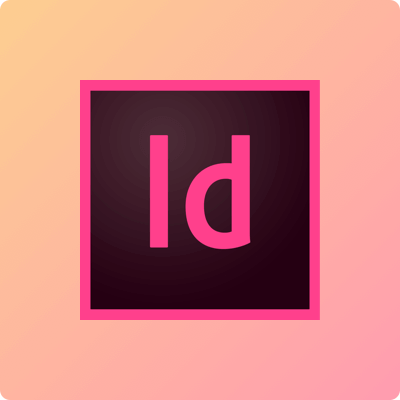
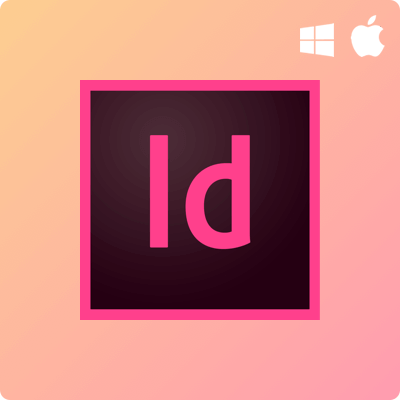
Made it easier to see OS’s on tools

Changed region(s): [[0.87, 0.03, 0.96, 0.15], [0.75, 0.06, 0.84, 0.15]]

diff --git a/updates.html b/updates.html
@@ -61,11 +61,11 @@
                         <div class="updates-wrapper-right">
                             <h4>Added</h4>
                             <ul class="dash">
-                                <li>--</li>
+                                <li>SSL/HTTPS.</li>
                             </ul>
                             <h4>Removed</h4>
                             <ul class="dash">
-                                <!-- <li>Tracking with Hotjar for optimizing certain parts of the website because of the GDPR.</li> -->
+                                <li>Tracking with Hotjar for optimizing certain parts of the website because of the GDPR.</li>
                             </ul>
                             <h4>Improved</h4>
                             <ul class="dash">
@@ -73,12 +73,13 @@
                             </ul>
                             <h4>Fixed</h4>
                             <ul class="dash">
-                                <li>Fixed the shortcuts on de macOS toolspage.</li>
+                                <li>Fixed the wrong shortcuts on de macOS toolspage.</li>
                             </ul>
                         </div>
                     </div>
                     <hr>
                 </div>
+            </section>
 
             <section class="update-list">
                 <div id="update-4">
